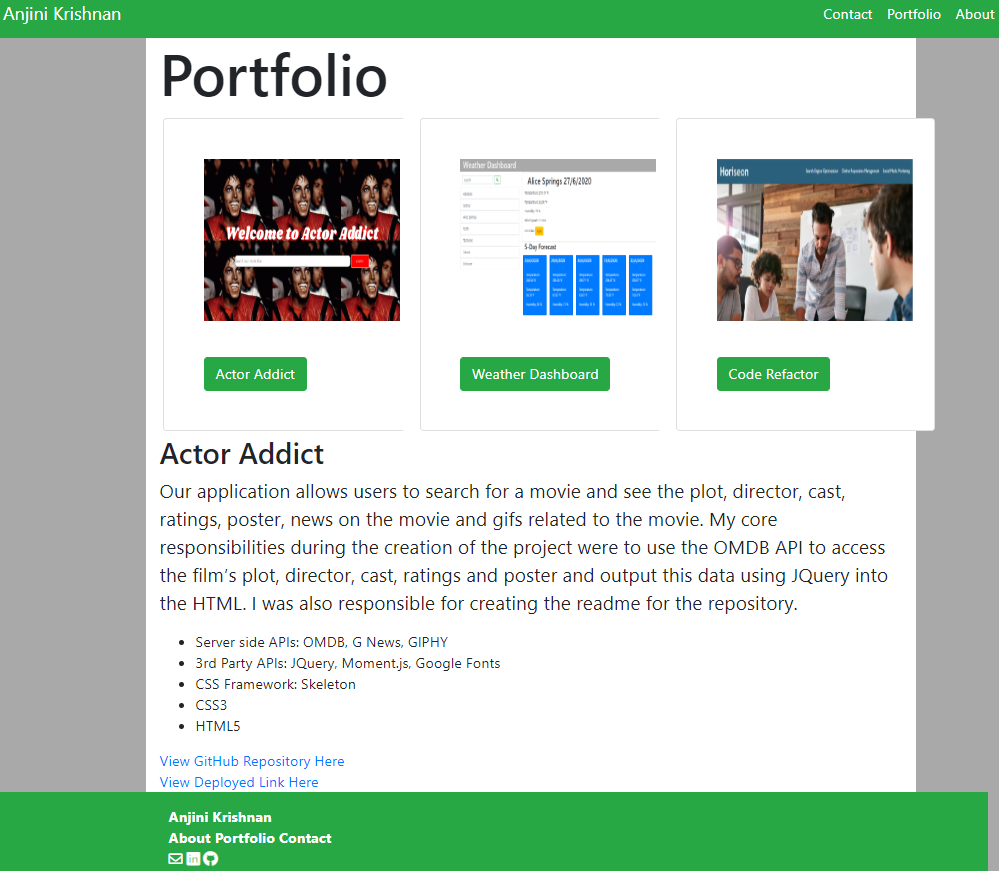
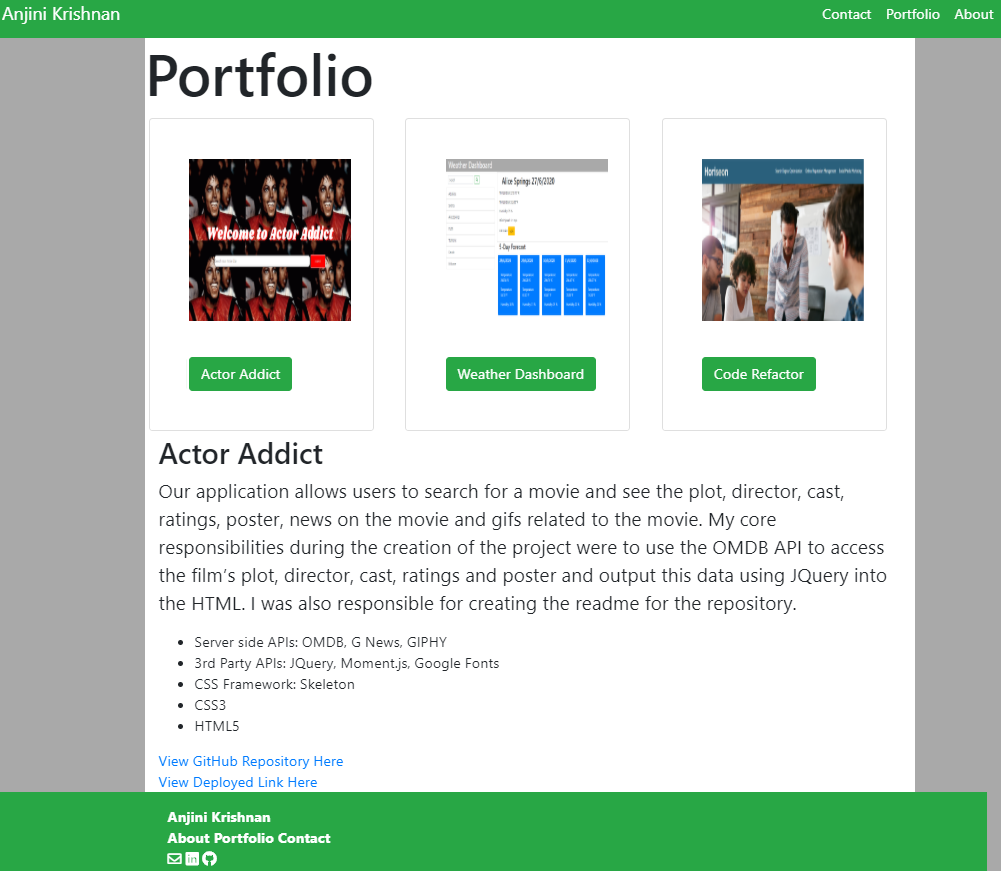
fixing cards css and updating portfolio readme image

diff --git a/portfolio.html b/portfolio.html
@@ -64,7 +64,7 @@
 
       <div class="col-lg-3 main">
 
-        <div class="card m-1 p-4" style="width: 18rem;">
+        <div class="card m-1 p-4">
           <img src="Assets/css/completeSearchImage.png" class="card-img-top" alt="Actor Addict Display">
           <div class="card-body">
 
@@ -80,7 +80,7 @@
 
       <div class="col-lg-3 main">
 
-        <div class="card m-1 p-4" style="width: 18rem;">
+        <div class="card m-1 p-4" >
           <img src="Assets/css/complete.png" class="card-img-top" alt="Weather Dashboard Display">
           <div class="card-body">
 
@@ -96,7 +96,7 @@
 
       <div class="col-lg-3 main">
 
-        <div class="card m-1 p-4" style="width: 18rem;">
+        <div class="card m-1 p-4">
           <img src="Assets/css/completeMain.png" class="card-img-top" alt="Code Refactor display">
           <div class="card-body">
 

diff --git a/Assets/css/style.css b/Assets/css/style.css
@@ -1,3 +1,7 @@
+div.card.m-1.p-4{
+    margin: 0;
+    width: 250px;
+}
 button{
     border-color: white;
     background-color: white;
@@ -17,6 +21,9 @@ footer{
 }
 a.projectButton.btn-success:link{
     text-decoration: none;
+}
+div.col-lg-3.main{
+    padding: 0;
 }
 
 /*xs*/
